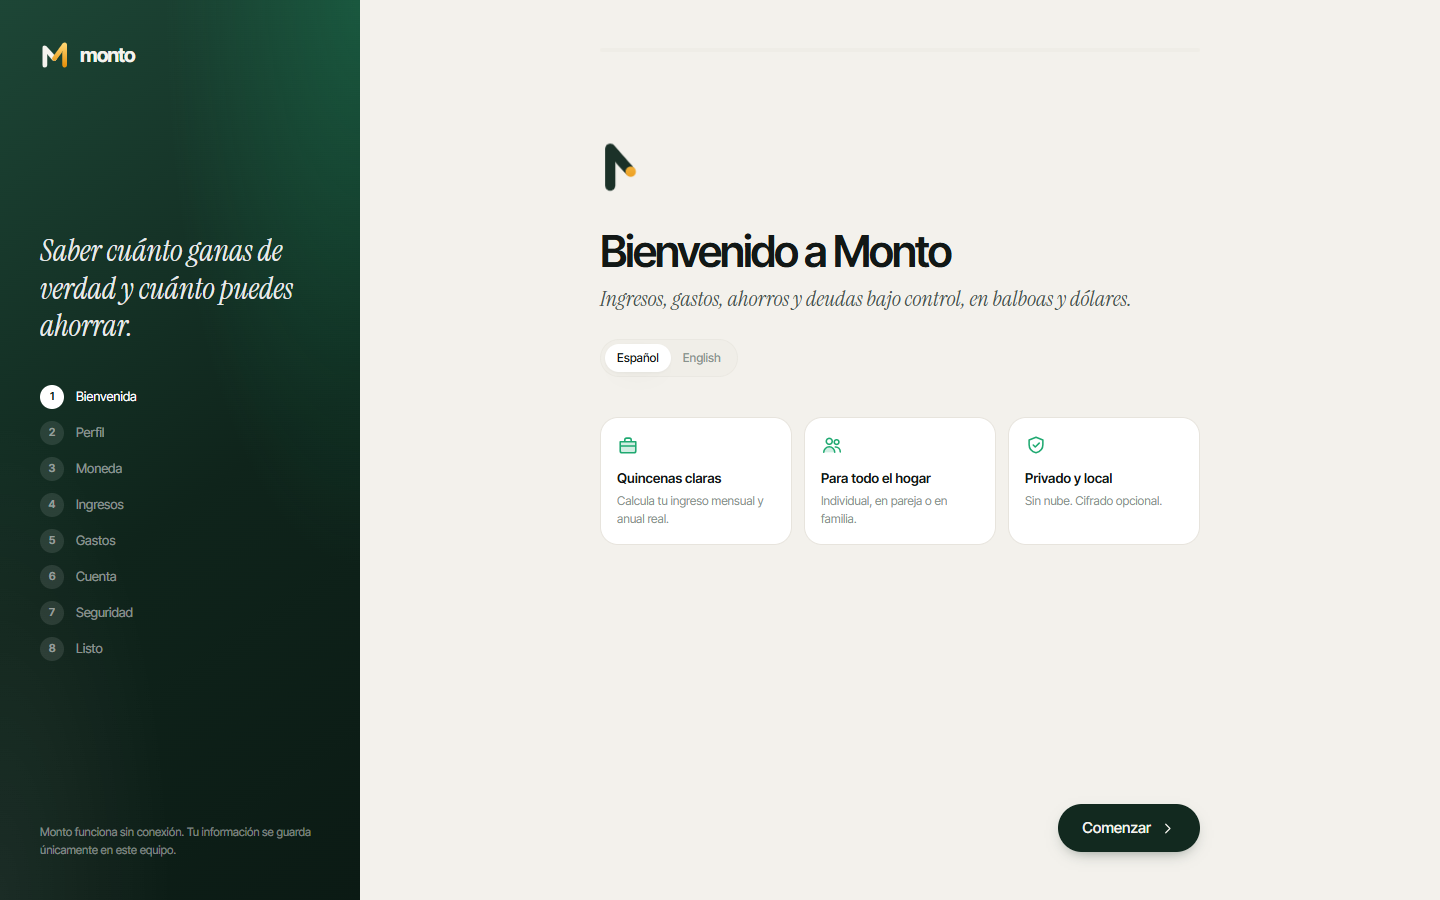
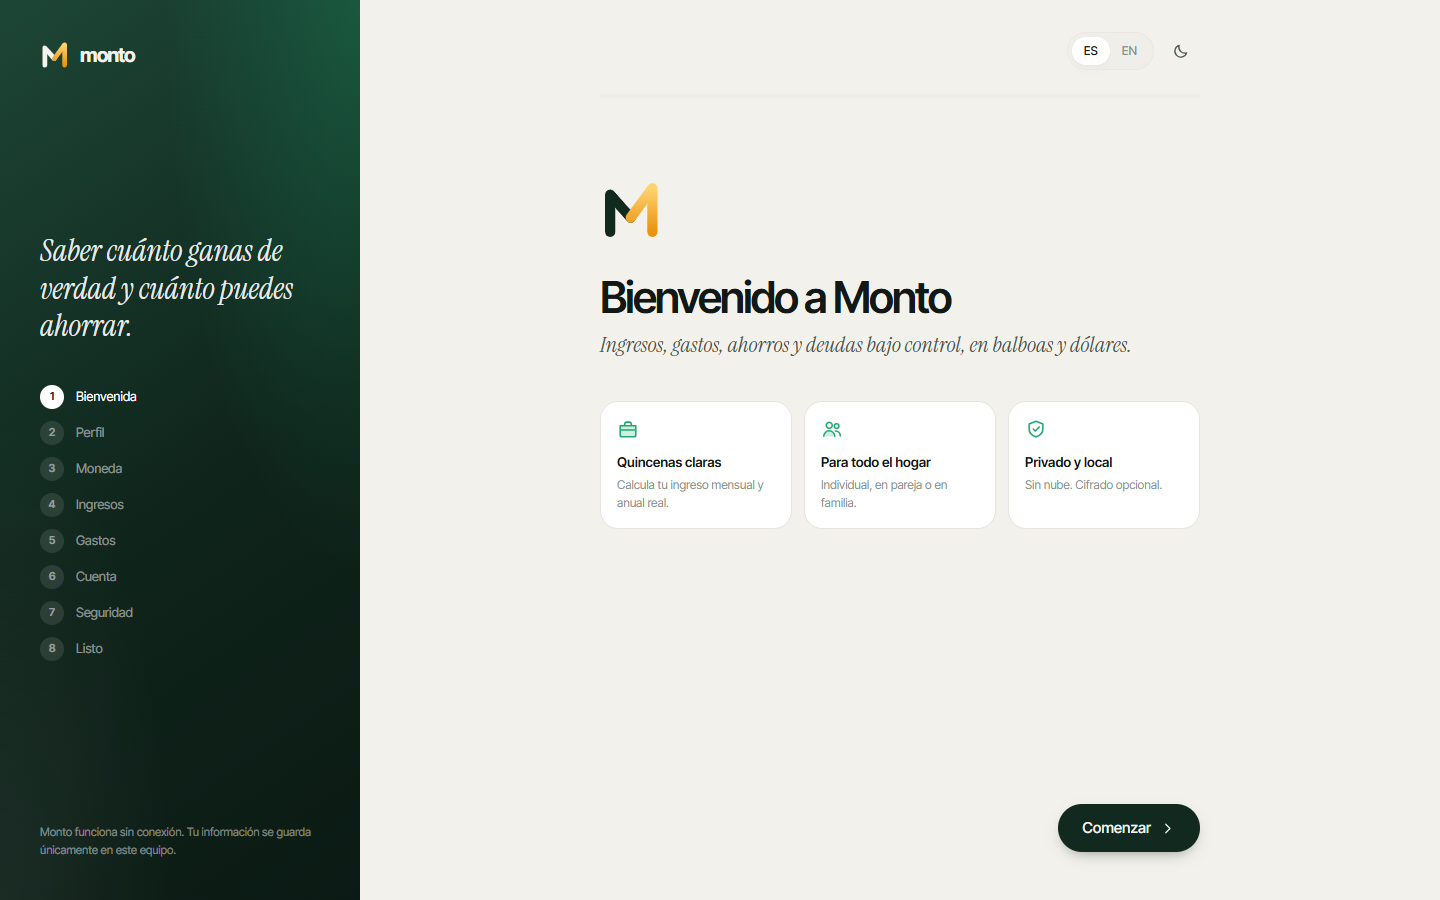
feat(apariencia): modo claro/oscuro y selector de idioma en la barra superior; primer arranque en modo claro

diff --git a/src/features/onboarding/Onboarding.tsx b/src/features/onboarding/Onboarding.tsx
@@ -1,7 +1,7 @@
 import { useMemo, useState } from 'react';
 import { AnimatePresence, motion } from 'motion/react';
 import confetti from 'canvas-confetti';
-import { Button, ChoiceCard, Segmented, Field, Input, MoneyInput, Select, Toggle, useMotionOK, ease } from '../../components/ui';
+import { Button, ChoiceCard, Field, Input, MoneyInput, Select, Toggle, useMotionOK, ease } from '../../components/ui';
 import { LogoMark } from '../../brand/Logo';
 import { Icon } from '../../icons';
 import { IncomeConfigForm, emptyDraft, draftToConfig, type IncomeDraft } from '../income/IncomeConfigForm';
@@ -11,13 +11,14 @@ import { ExpensePlanner } from '../plan/ExpensePlanner';
 import { estimateIncome } from '../../domain/salary';
 import type { PlanItem } from '../../domain/plan';
 import { createAccount } from '../../db/repo/finance';
-import { createMember, seedCategories, setPrefs, setProfile } from '../../db/repo/core';
+import { createMember, getPrefs, seedCategories, setPrefs, setProfile } from '../../db/repo/core';
+import { QuickPrefs } from '../../components/layout/QuickPrefs';
 import { parseMoney, type Currency } from '../../lib/money';
 import { today } from '../../lib/dates';
 import type { Engine } from '../../db/engine';
 import type { AccountType, Member, ProfileMode } from '../../db/types';
 import { errorMessage } from '../../hooks/useDb';
-import { lang, setLang, tr } from '../../lib/i18n';
+import { tr } from '../../lib/i18n';
 
 const BANKS = ['Banco General', 'Banistmo', 'BAC Credomatic', 'Banco Nacional de Panamá', 'Caja de Ahorros', 'Global Bank', 'Multibank', 'Banesco', 'St. Georges Bank', 'Credicorp Bank', tr('Otro')];
 const STEPS = [tr('Bienvenida'), tr('Perfil'), tr('Moneda'), tr('Ingresos'), tr('Gastos'), tr('Cuenta'), tr('Seguridad'), tr('Listo')];
@@ -74,7 +75,7 @@ export function Onboarding({ engine, onDone }: { engine: Engine; onDone: (owner:
         const acc = createAccount(engine, actor, { name: accName.trim() || tr('Cuenta principal'), type: accType, currency, initialBalance: parseMoney(accBalance || '0'), institution: BANKS.includes(accName) ? accName : null, ownerMemberId: mode === 'individual' ? null : owner.id });
         if (plan.length) saveExpensePlan(engine, actor, plan);
         if (!skipIncome) createIncomeSource(engine, actor, { name: employer.trim() || tr('Salario'), config: draftToConfig(income), currency, accountId: acc.id, startDate: today() });
-        setPrefs(engine, { theme: 'system', reducedMotion: 'system', autoLockMinutes: usePw ? 5 : 0, showBothCurrencies: true });
+        setPrefs(engine, { theme: getPrefs(engine).theme, reducedMotion: 'system', autoLockMinutes: usePw ? 5 : 0, showBothCurrencies: true });
         setProfile(engine, { name: name.trim(), mode, primaryCurrency: currency, onboarded: true, householdName: household.trim() || undefined });
       });
       if (usePw) await engine.setPassword(pw);
@@ -115,6 +116,7 @@ export function Onboarding({ engine, onDone }: { engine: Engine; onDone: (owner:
 
       <main className="flex-1 overflow-y-auto">
         <div className="max-w-[680px] mx-auto px-10 py-12 min-h-full flex flex-col">
+          <div className="flex justify-end -mt-4 mb-6"><QuickPrefs /></div>
           <div className="h-1 rounded-full bg-surface-3 overflow-hidden mb-10"><motion.div className="h-full bg-emerald rounded-full" animate={{ width: `${(step / (STEPS.length - 1)) * 100}%` }} transition={{ duration: 0.5, ease }} /></div>
           <AnimatePresence mode="wait" custom={dir}>
             <motion.div key={step} custom={dir} initial={ok ? { opacity: 0, x: 40 * dir } : false} animate={{ opacity: 1, x: 0 }} exit={ok ? { opacity: 0, x: -40 * dir } : { opacity: 0 }} transition={{ duration: 0.35, ease }} className="flex-1">
@@ -123,7 +125,6 @@ export function Onboarding({ engine, onDone }: { engine: Engine; onDone: (owner:
                   <LogoMark size={64} animated={ok} className="text-brand dark:text-ink" />
                   <h1 className="text-[44px] font-semibold tracking-[-0.05em] leading-[1.05] mt-8">{tr('Bienvenido a Monto')}</h1>
                   <p className="serif text-[22px] text-ink-2 mt-2">{tr('Ingresos, gastos, ahorros y deudas bajo control, en balboas y dólares.')}</p>
-                  <Segmented className="mt-6" size="sm" value={lang} onChange={(v) => { if (v !== lang) setLang(v); }} options={[{ value: 'es', label: 'Español' }, { value: 'en', label: 'English' }]} />
                   <div className="grid grid-cols-3 gap-3 mt-10">
                     {[['salary', tr('Quincenas claras'), tr('Calcula tu ingreso mensual y anual real.')], ['family', tr('Para todo el hogar'), tr('Individual, en pareja o en familia.')], ['shield', tr('Privado y local'), tr('Sin nube. Cifrado opcional.')]].map(([i, t, d]) => (
                       <div key={t} className="rounded-[18px] bg-surface border border-line p-4"><Icon name={i} size={22} active className="text-emerald" /><p className="text-[13.5px] font-semibold mt-3">{t}</p><p className="text-[12px] text-muted mt-1">{d}</p></div>

diff --git a/src/components/layout/Topbar.tsx b/src/components/layout/Topbar.tsx
@@ -6,6 +6,7 @@ import { Button, IconButton, Segmented, Input, Modal } from '../ui';
 import { formatMonth, greeting, monthKey, today, type PeriodKind } from '../../lib/dates';
 import { Icon } from '../../icons';
 import { tr } from '../../lib/i18n';
+import { QuickPrefs } from './QuickPrefs';
 
 export const PERIODS: Array<{ value: PeriodKind; label: string }> = [
   { value: 'day', label: tr('Día') }, { value: 'week', label: tr('Semana') }, { value: 'month', label: tr('Mes') }, { value: 'quarter', label: tr('Trimestre') }, { value: 'year', label: tr('Año') }, { value: 'custom', label: tr('Rango') },
@@ -42,6 +43,7 @@ export function Topbar() {
       {showPeriod && (
         <Segmented size="sm" layoutId="period" value={period} onChange={(v) => (v === 'custom' ? setRangeOpen(true) : setPeriod(v))} options={PERIODS} />
       )}
+      <QuickPrefs />
       <IconButton icon="bell" label={tr('Notificaciones')} badge={count} onClick={() => setNotif(true)} />
       {canCreate && <Button icon="plus" onClick={() => openTx()}>{tr('Movimiento')}</Button>}
       <Modal open={rangeOpen} onClose={() => setRangeOpen(false)} title={tr('Rango personalizado')} width={420} icon="calendar"

diff --git a/src/components/layout/QuickPrefs.tsx b/src/components/layout/QuickPrefs.tsx
@@ -1,0 +1,18 @@
+import { useApp } from '../../store/app';
+import { setPrefs } from '../../db/repo/core';
+import { IconButton, Segmented } from '../ui';
+import { lang, setLang, tr, type Lang } from '../../lib/i18n';
+
+/** Light/dark toggle and language selector, available from the first screen on. */
+export function QuickPrefs() {
+  const engine = useApp((s) => s.engine);
+  const dark = useApp((s) => s.dark);
+  const changeLang = (v: Lang) => { if (v !== lang) void (engine ? engine.flush() : Promise.resolve()).then(() => setLang(v)); };
+  return (
+    <div className="flex items-center gap-2">
+      <Segmented size="sm" layoutId="lang" value={lang} onChange={changeLang} options={[{ value: 'es', label: 'ES' }, { value: 'en', label: 'EN' }]} />
+      {/* setPrefs writes to the database; the engine bumps its revision and App re-applies the theme */}
+      <IconButton icon={dark ? 'sun' : 'moon'} label={dark ? tr('Modo claro') : tr('Modo oscuro')} onClick={() => engine && setPrefs(engine, { theme: dark ? 'light' : 'dark' })} />
+    </div>
+  );
+}

diff --git a/src/db/repo/core.ts b/src/db/repo/core.ts
@@ -17,7 +17,7 @@ export function setSetting(e: Engine, key: string, value: unknown) {
 }
 
 export const DEFAULT_PROFILE: Profile = { name: '', mode: 'individual', primaryCurrency: 'PAB', onboarded: false };
-export const DEFAULT_PREFS: Preferences = { theme: 'system', reducedMotion: 'system', autoLockMinutes: 5, showBothCurrencies: true };
+export const DEFAULT_PREFS: Preferences = { theme: 'light', reducedMotion: 'system', autoLockMinutes: 5, showBothCurrencies: true };
 export const getProfile = (e: Engine) => getSetting<Profile>(e, 'profile', DEFAULT_PROFILE);
 export const getPrefs = (e: Engine) => getSetting<Preferences>(e, 'preferences', DEFAULT_PREFS);
 export const setPrefs = (e: Engine, p: Partial<Preferences>) => setSetting(e, 'preferences', { ...getPrefs(e), ...p });

diff --git a/src/lib/locales/en.ts b/src/lib/locales/en.ts
@@ -1063,6 +1063,10 @@ export const EN: Record<string, string> = {
   'Fila {v0}: {message}': 'Row {v0}: {message}',
   'Generado por Monto el {v0} · Página {i} de {pages}': 'Generated by Monto on {v0} · Page {i} of {pages}',
   'Las actualizaciones solo están disponibles en la aplicación de escritorio.': 'Updates are only available in the desktop app.',
+  // Quick preferences
+  'Modo claro': 'Light mode',
+  'Modo oscuro': 'Dark mode',
+
   // Monthly plan
   "Plan mensual": "Monthly plan",
   "Salario por quincena (neto, lo que recibes)": "Pay per payday (net, what you receive)",

diff --git a/CHANGELOG.md b/CHANGELOG.md
@@ -15,8 +15,10 @@ El formato sigue [Keep a Changelog 1.1.0](https://keepachangelog.com/es-ES/1.1.0
 ### Nuevas funcionalidades
 - **Plan mensual de gastos** (nuevo módulo *Plan mensual*, disponible en los modos individual, pareja y familia). Monto pregunta los gastos del mes uno por uno (vivienda, luz, agua, gas, internet, alimentación, transporte, préstamos, tarjetas, salud, educación y entretenimiento) y permite añadir otros. Al terminar resta los gastos del ingreso mensual neto de la persona y muestra el fondo restante, si puede ahorrar y cuánto al mes. Cada integrante tiene su propio plan.
 - El plan también forma parte de la configuración inicial, como paso *Gastos* después de *Ingresos*.
+- **Modo claro y oscuro con un clic** y **selector de idioma (ES/EN)** en la barra superior y desde la primera pantalla de la configuración inicial. *Configuración → Apariencia* conserva además la opción *Sistema*.
 
 ### Cambios
+- La primera vez que se abre, Monto arranca en **modo claro** (antes seguía el tema de Windows). Las instalaciones existentes conservan el tema que tenían.
 - En la configuración inicial el salario se escribe **neto** (lo que recibes, ya con los descuentos). Ese paso ya no muestra las opciones de descuentos de ley; siguen disponibles al editar la fuente de ingreso en *Ingresos y salario*.
 
 ## [0.4.8-beta.3] - 2026-11-06

diff --git a/README.md b/README.md
@@ -82,7 +82,7 @@
 - El instalador pregunta el idioma (español o inglés).
 
 **Experiencia**
-- Splash animado, configuración inicial guiada, modo claro/oscuro automático según Windows, transiciones, contadores animados, gráficos que se dibujan progresivamente, notificaciones internas y soporte para **reducir el movimiento**.
+- Splash animado, configuración inicial guiada, modo claro (predeterminado) u oscuro con un clic desde la barra superior, o automático según Windows, transiciones, contadores animados, gráficos que se dibujan progresivamente, notificaciones internas y soporte para **reducir el movimiento**.
 
 ## Capturas de pantalla
 
